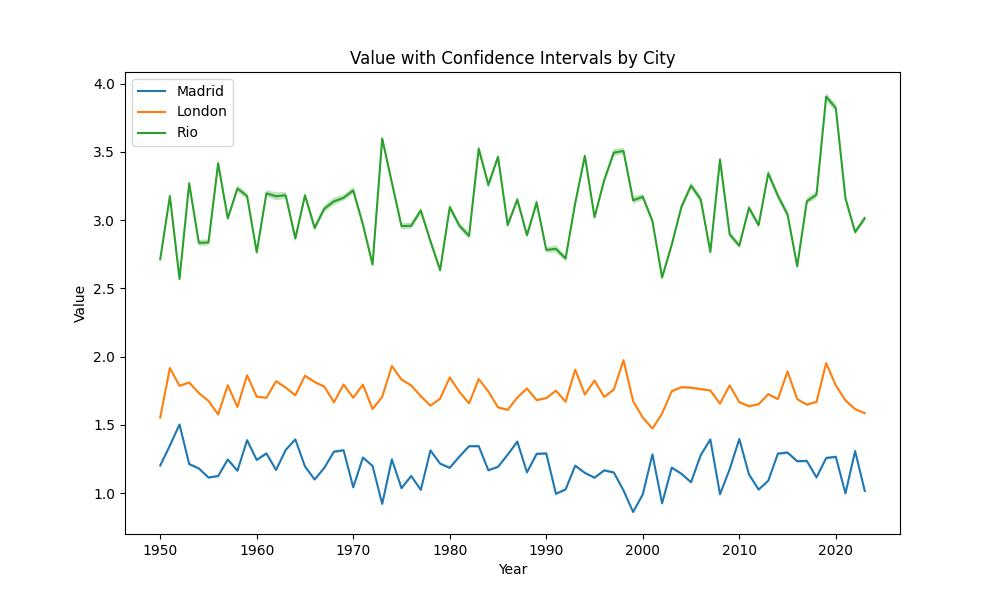
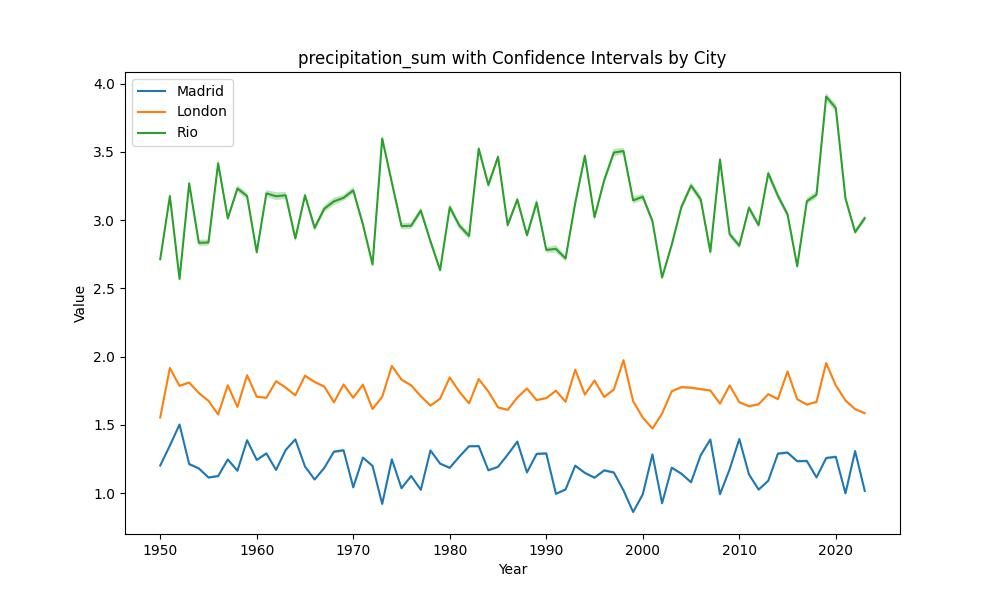
Graficos bien

Changed region(s): [[0.279, 0.09, 0.744, 0.12]]

diff --git a/src/module_1/module_1_meteo_api.py b/src/module_1/module_1_meteo_api.py
@@ -57,20 +57,7 @@ def conf_interval(df):
     result['Upper_CI'] = result.apply(lambda row: row['mean'] + stats.t.ppf(1 - 0.05/ 2, df=len(df) - 1) * row['std'] / (len(df) ** 0.5), axis=1) 
     return result
 
-def graficar_bueno(df, variables):
-    vars = [x.strip() for x in variables.split(',')]
-    for variable in vars:
-        df_filtered = df[df["Indicadores"] == variable]
-        # Filtrar el DataFrame para incluir solo datos del primer día de cada mes
-        line = alt.Chart(df_filtered).mark_line().encode(x='time:T',y='Value', color = 'city:N')
-        interval = alt.Chart(df_filtered).mark_errorband(extent='ci').encode(x='time:T',y=alt.Y('Value:Q'),color='city:N')
-        title = alt.TitleParams(text=variable, align='center', fontSize=20)
-        final_chart = (line + interval).properties(title=title,width=600,height=400)
-        final_chart.save(f'{variable}_meteo.html')
-        # Mostrar el gráfico en pantalla (opcional)
-        #plt.show()
-
-def graficar_malo(df, variables):
+def graficar(df, variables):
     vars = [x.strip() for x in variables.split(',')]
     for variable in vars:
         df_filtered = df[df["Indicadores"] == variable]
@@ -83,7 +70,7 @@ def graficar_malo(df, variables):
         
         ax.set_xlabel('Year')
         ax.set_ylabel('Value')
-        ax.set_title('Value with Confidence Intervals by City')
+        ax.set_title(f'{variable} with Confidence Intervals by City')
         ax.legend(loc='upper left')
 
         fig.savefig(f'{variable}_meteo.jpg', format='jpg')
@@ -110,7 +97,7 @@ def main():
         variable_intervals['city'] = i
         data_cities.append(variable_intervals)
     meteo_data = pd.concat(data_cities, axis = 0)
-    graficar_malo(df = meteo_data, variables = VARIABLES)
+    graficar(df = meteo_data, variables = VARIABLES)
 
 if __name__ == "__main__":
     start_time = time.time()
